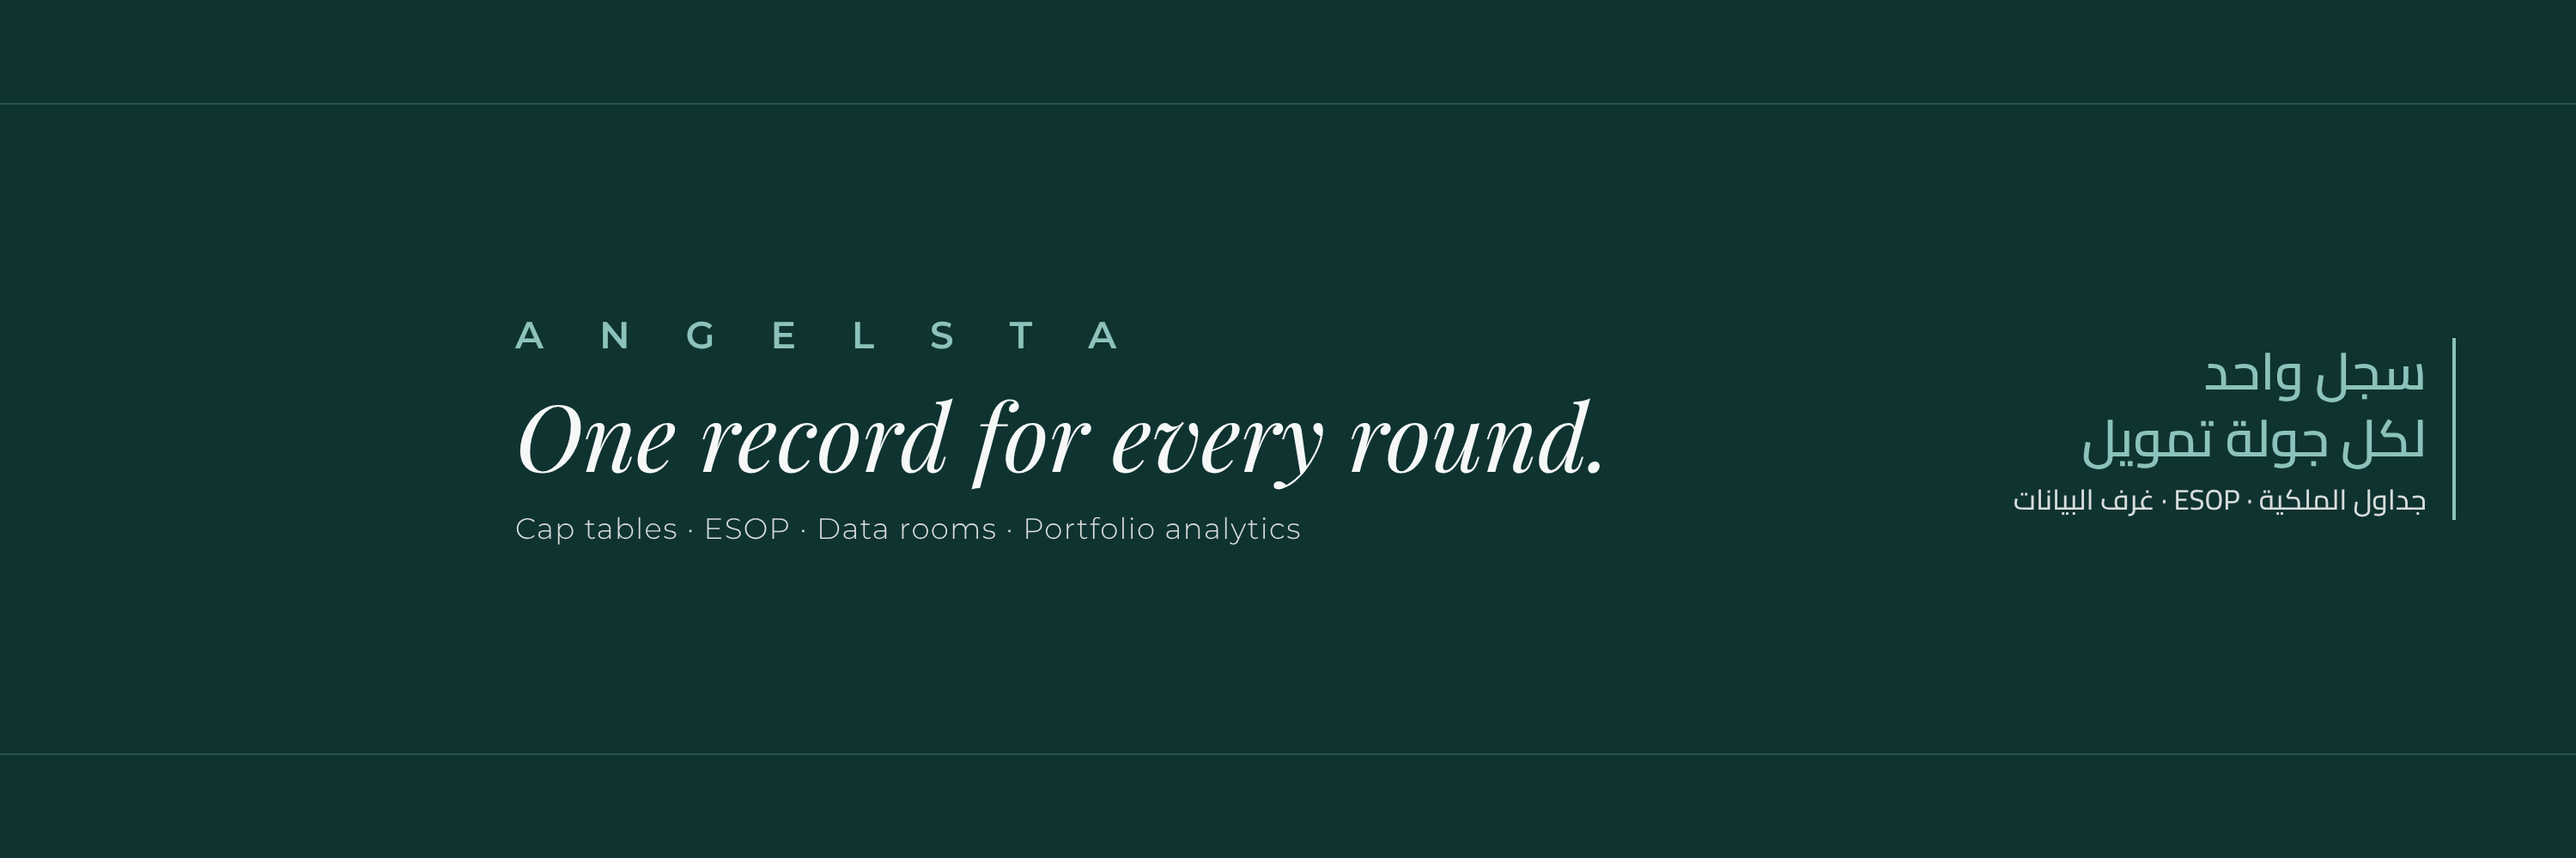
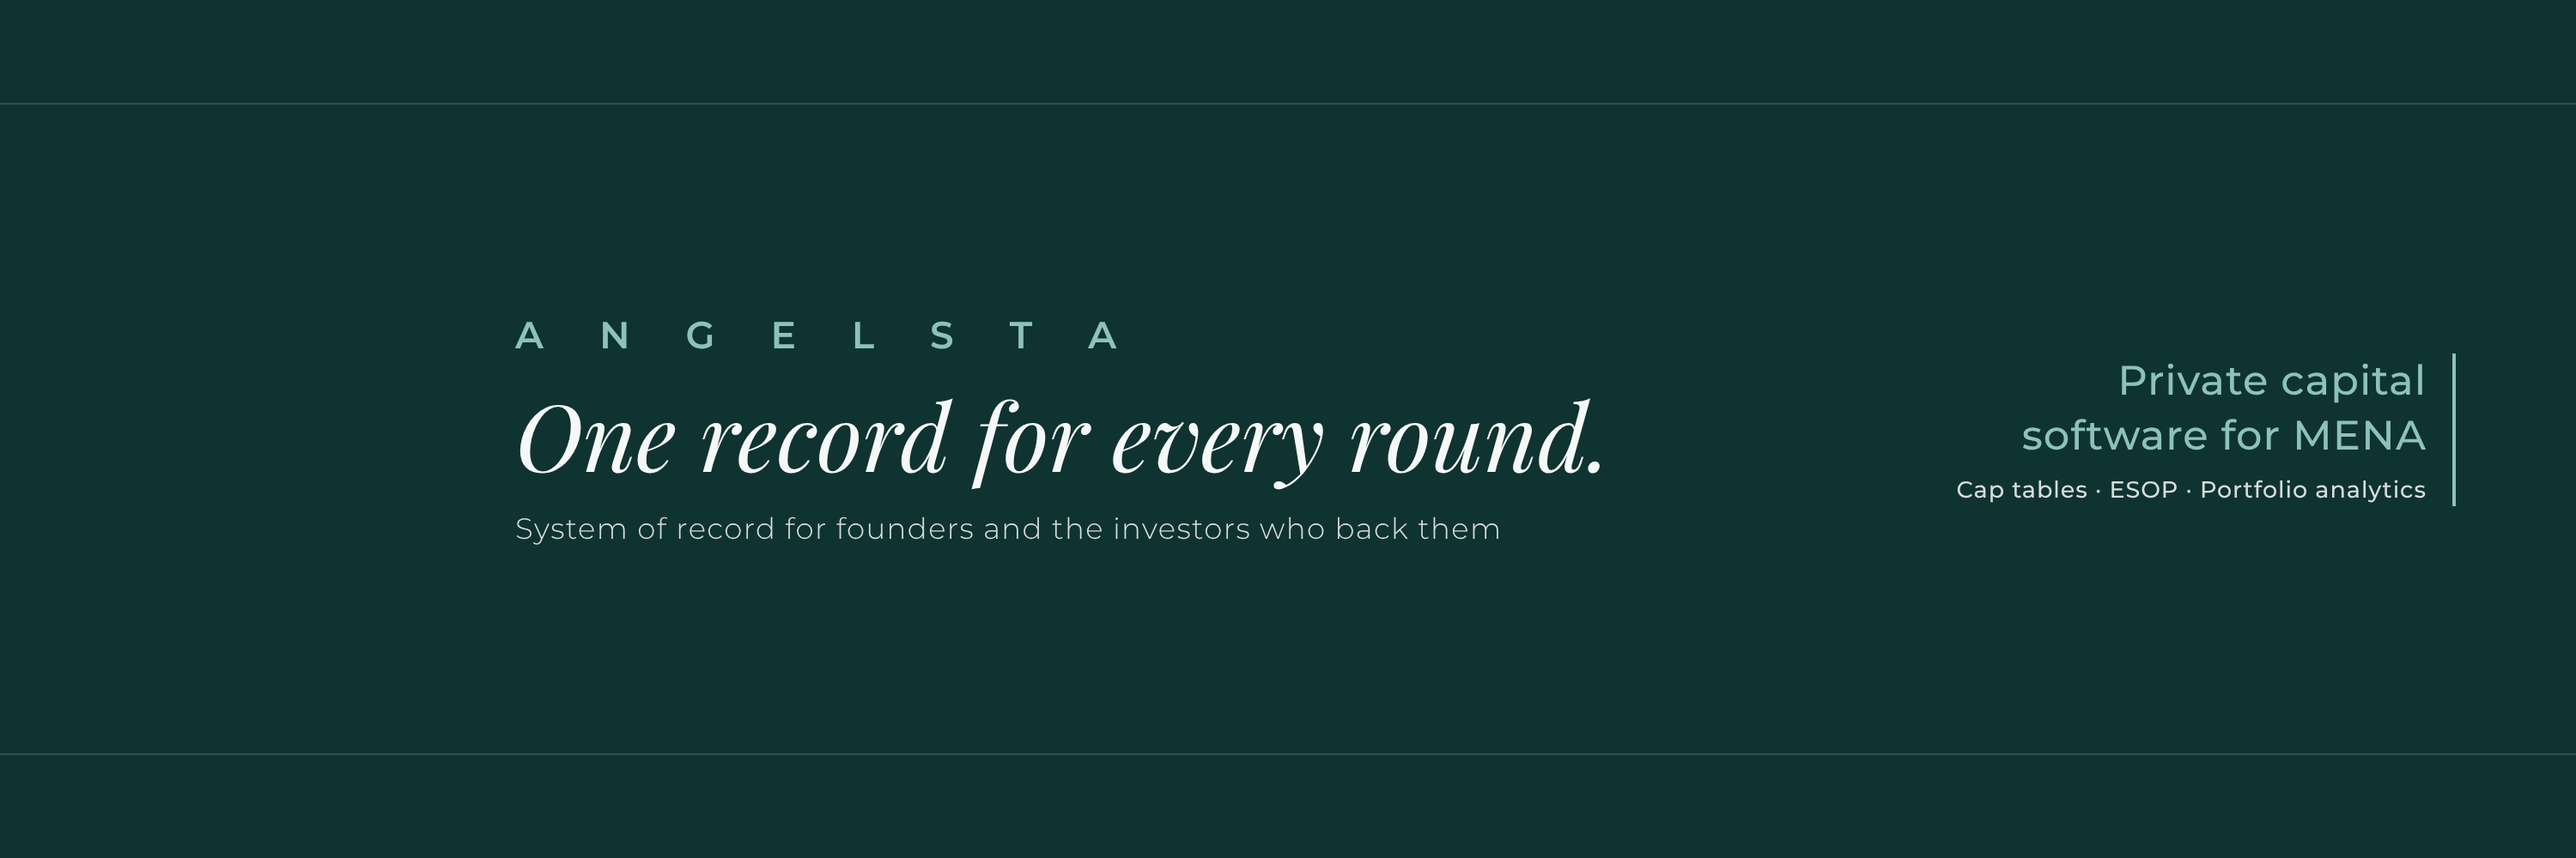
Make Angelsta social covers English-only
Claude-Session: https://claude.ai/code/session_017FNuAPEzSGgkQcLY2J99sg

Changed region(s): [[0.744, 0.403, 0.961, 0.62], [0.217, 0.589, 0.558, 0.651]]

diff --git a/angelsta-social/covers.js b/angelsta-social/covers.js
@@ -9,11 +9,11 @@ body{width:${w}px;height:${h}px;background:#0F3330;position:relative;overflow:hi
 .word{font-weight:600;letter-spacing:.6em;font-size:${ws}px;color:#8CC2BB}
 h1{font-family:'Playfair Display',serif;font-style:italic;font-weight:400;font-size:${hs}px;line-height:1.1}
 p{font-weight:300;font-size:${ss}px;letter-spacing:.04em;color:#D7DCDB}
-.r{direction:rtl;text-align:right;font-family:Cairo,sans-serif;font-weight:600;font-size:${ar}px;color:#8CC2BB;line-height:1.3;border-right:2px solid #8CC2BB;padding-right:${ar*0.5}px}
-.r small{display:block;font-weight:500;font-size:${ar*0.55}px;color:#D7DCDB;margin-top:6px}
+.r{text-align:right;font-family:Montserrat,sans-serif;font-weight:500;font-size:${ar*0.8}px;color:#8CC2BB;line-height:1.35;border-right:2px solid #8CC2BB;padding-right:${ar*0.5}px;letter-spacing:.02em}
+.r small{display:block;font-weight:500;font-size:${ar*0.45}px;color:#D7DCDB;margin-top:6px}
 </style><body><div class=rule style="top:${h*0.12}px"></div><div class=rule style="bottom:${h*0.12}px"></div>
-<div class=wrap><div class=l><div class=word>A N G E L S T A</div><h1>One record for every round.</h1><p>Cap tables · ESOP · Data rooms · Portfolio analytics</p></div>
-<div class=r>سجل واحد<br>لكل جولة تمويل<small>جداول الملكية · ESOP · غرف البيانات</small></div></div>`;
+<div class=wrap><div class=l><div class=word>A N G E L S T A</div><h1>One record for every round.</h1><p>System of record for founders and the investors who back them</p></div>
+<div class=r>Private capital<br>software for MENA<small>Cap tables · ESOP · Portfolio analytics</small></div></div>`;
 (async()=>{const b=await chromium.launch();
 const jobs={'linkedin-cover-1128x191':[1128,191,280,40,30,11,13,19],'x-header-1500x500':[1500,500,300,70,54,17,22,30]};
 for(const [n,[w,h,...a]] of Object.entries(jobs)){
